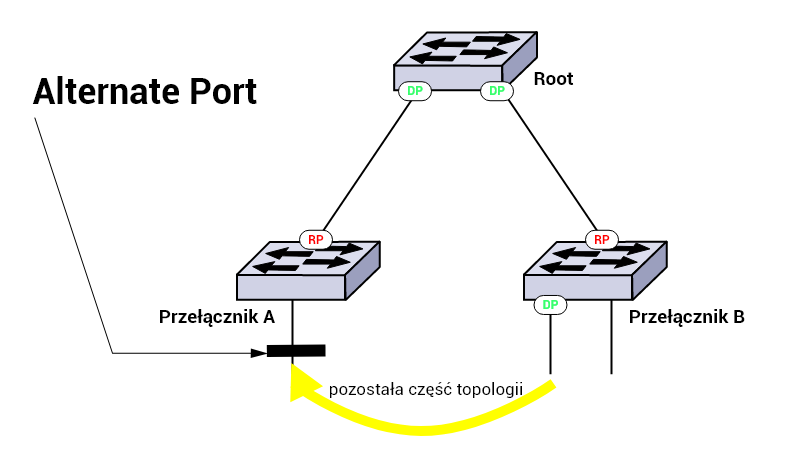
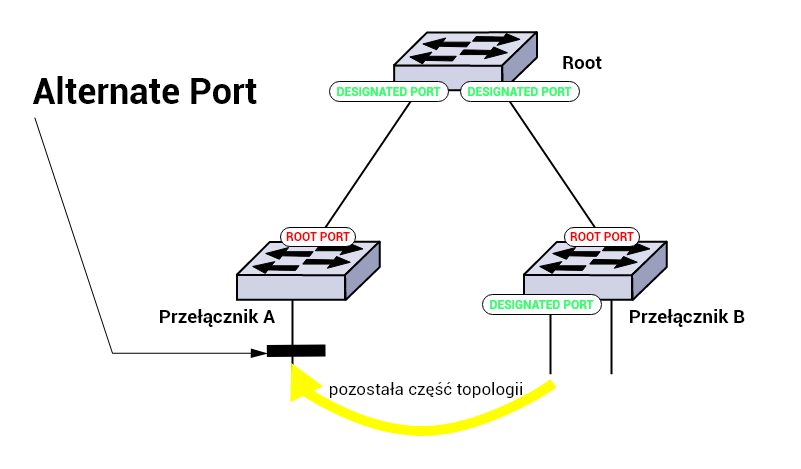
Swap images and improve margins

diff --git a/src/pages/RSTP/RSTP.utils.js b/src/pages/RSTP/RSTP.utils.js
@@ -82,7 +82,10 @@ export const RSTPUtils = [
 					które są bardziej przydatne niż te, które wysyła każdy inny most. Most główny jest jedynym mostem w sieci,
 					który nie ma portu głównego. Wszystkie inne mosty odbierają jednostki BPDU na co najmniej jednym porcie. [1]
 				</p>
-				<img src={role1} alt="role1"></img>
+				<figure>
+					<img src={role1} alt="Porty główne"></img>
+					<figcaption>Porty główne</figcaption>
+				</figure>
 				<p>
 					<b>Role portów wyznaczonych</b> - Port jest wyznaczony (designated), jeśli ma możlwość by wysłać najlepszą
 					jednostkę BPDU w segmencie, do którego jest podłączony. Mosty 802.1D łączą ze sobą różne segmenty, takie jak
@@ -92,20 +95,33 @@ export const RSTPUtils = [
 					najlepszą jednostkę BPDU, jako most wyznaczony dla tego segmentu. Port na tym moście, który odpowiada, jest
 					portem wyznaczonym dla tego segmentu. [1]
 				</p>
-				<img src={role2} alt="role2"></img>
+
+				<figure>
+					<img src={role2} alt="Porty desygnowane"></img>
+					<figcaption>Porty desygnowane</figcaption>
+				</figure>
 				<p>
 					<b>Role portów alternatywnych i zapasowych</b> - Te dwie role odpowiadają stanowi blokowania (discarding)
 					802.1D. Zablokowany port jest definiowany jako port inny niż wyznaczony czy główny. Odbiera on bardziej
 					użyteczną jednostkę BPDU niż ta, którą wysyła w swoim segmencie. Port alternatywny odbiera bardziej przydatne
 					jednostki BPDU z innego mostu, jest portem zablokowanym:
 				</p>
-				<img src={role3} alt="role3"></img>
+
+				<figure>
+					<img src={role3} alt="Porty alternatywne"></img>
+					<figcaption>Porty alternatywne</figcaption>
+				</figure>
+
 				<p>
 					{' '}
 					Port zapasowy odbiera bardziej przydatne jednostki BPDU z tego samego mostu, na którym się znajduje, jest
 					portem zablokowanym:
 				</p>
-				<img src={role4} alt="role4"></img>
+
+				<figure>
+					<img src={role4} alt="Port zapasowy"></img>
+					<figcaption>Port zapasowy</figcaption>
+				</figure>
 				<p>
 					To rozróżnienie zostało już wprowadzone wewnętrznie w standardzie 802.1D. Tak właśnie działa Cisco UplinkFast.
 					Uzasadnieniem jest to, że port alternatywny zapewnia alternatywną ścieżkę do mostu głównego i dlatego może
@@ -127,7 +143,10 @@ export const RSTPUtils = [
 					RSTP wprowadził kilka zmian do formatu BPDU. Tylko dwie flagi, zmiana topologii (TC) i potwierdzenie TC (TCA),
 					są zdefiniowane w standardzie 802.1D. RSTP wykorzystuje teraz wszystkie sześć bitów bajtu flagi. [1]
 				</p>
-				<img src={BDPU1} alt="BDPU1"></img>
+
+				<figure>
+					<img src={BDPU1} alt="BDPU1"></img>
+				</figure>
 			</>
 		),
 	},

diff --git a/src/pages/RSTP/RSTP.js b/src/pages/RSTP/RSTP.js
@@ -6,7 +6,7 @@ import './RSTP.css';
 const RSTP = () => {
 	return (
 		<MainTemplate title="Rapid Spanning Tree Protocol (RSTP)">
-			<Box mb="10px">
+			<Box mb="20px">
 				<Typography component="h2" variant="h3">
 					Rapid Spanning Tree Protocol (RSTP)
 				</Typography>
